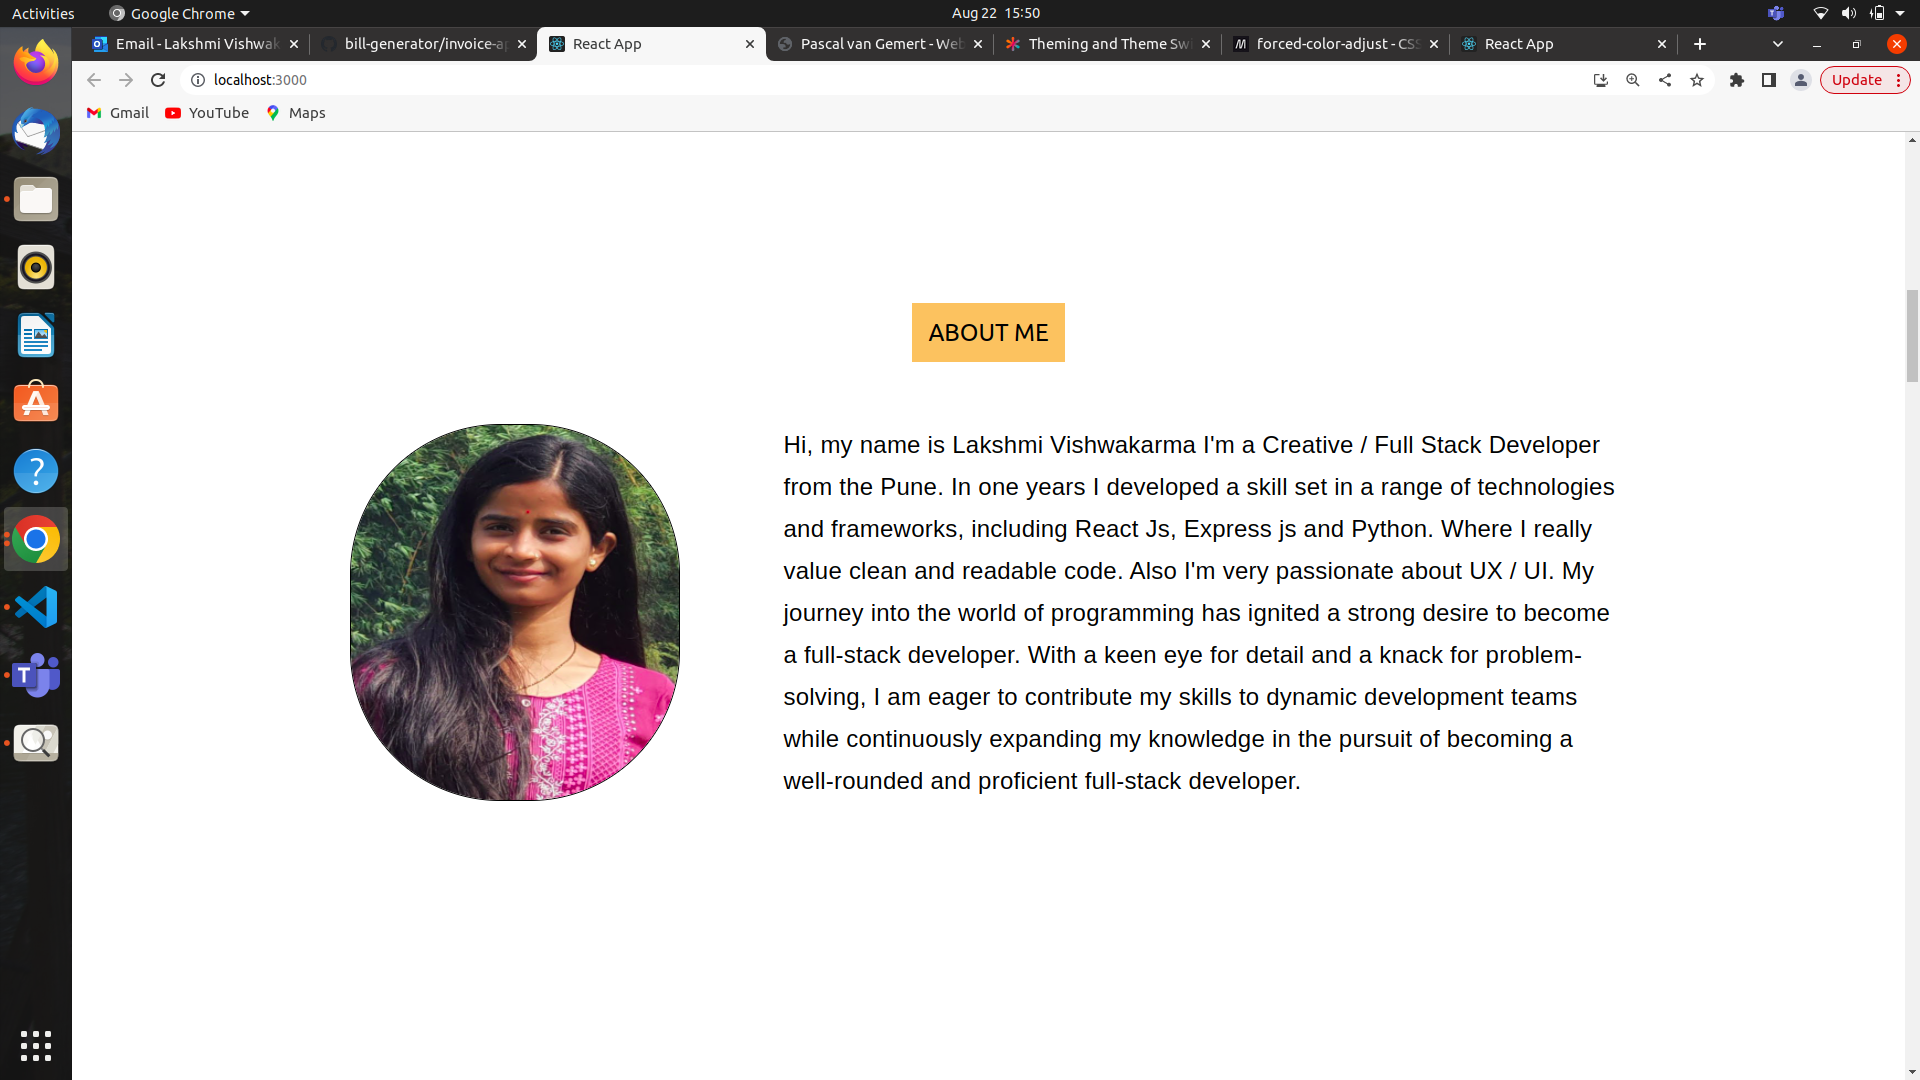
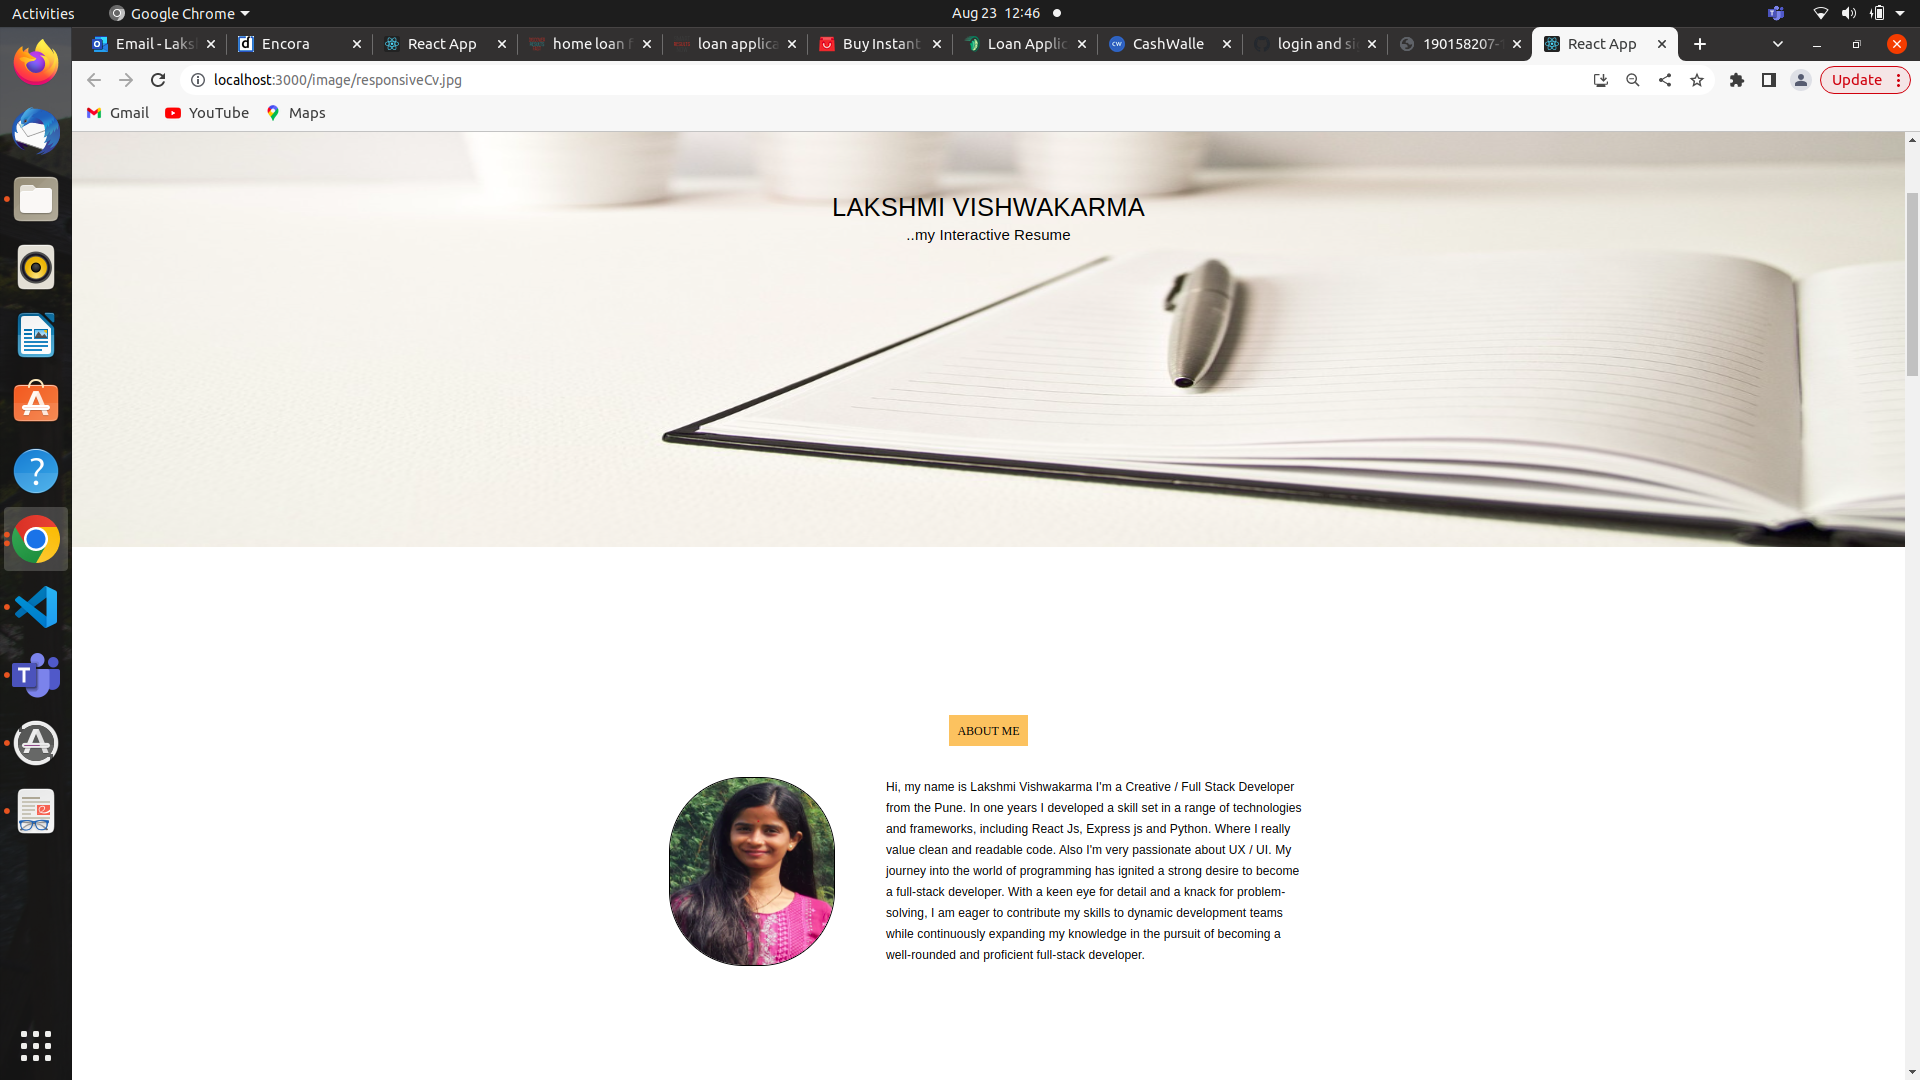
added images

diff --git a/resume/src/components/Homepage/style.js b/resume/src/components/Homepage/style.js
@@ -1,14 +1,10 @@
 const styles = {
-
-
     Container: {
-        backgroundImage: "url(http://localhost:3000/image/photo.jpg)",
-        backgroundSize: "100% 100%",
-        // opacity: 0.5,
         color: "black ",
-        // backgroundColor: "#fabd69",
         padding: " 400px 0",
         textAlign: "center",
+        backgroundImage: "url(http://localhost:3000/image/homepage.jpg)",
+        backgroundSize: "100% 100%",
     },
 
 

diff --git a/resume/src/components/PersonalDetail/style.js b/resume/src/components/PersonalDetail/style.js
@@ -1,10 +1,6 @@
 const styles = {
-
-
     imageContainer: {
         border: "1px solid black",
-        // marginTop: "30px",
-        // textAlign:"center",
         width: "80%",
         height: "250px",
         borderRadius: "100px"
